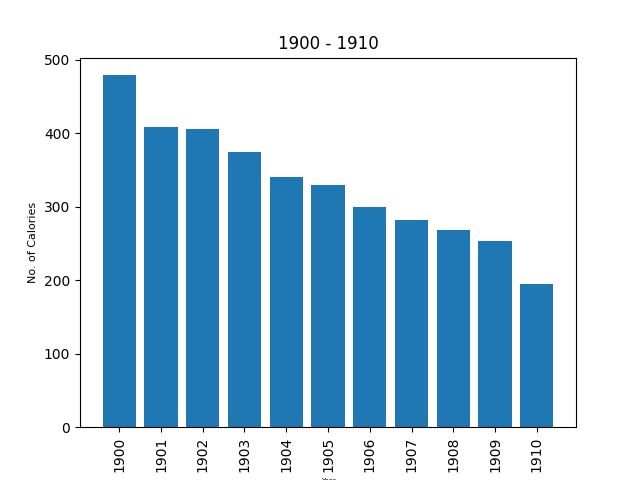
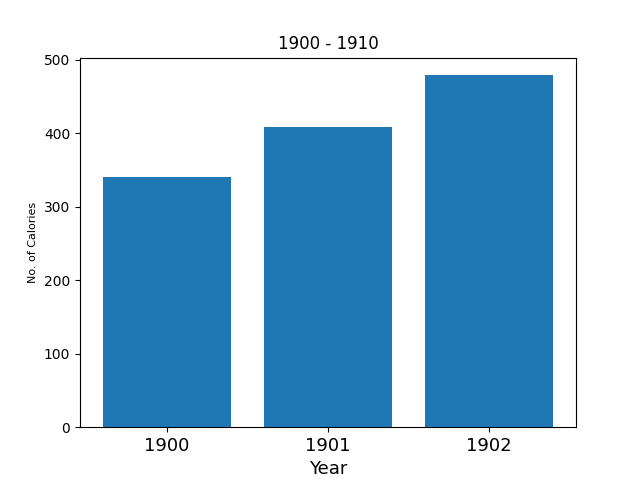
update

Changed region(s): [[0.1562, 0.1562, 0.875, 1.0]]

diff --git a/dataExcel.py b/dataExcel.py
@@ -13,19 +13,20 @@ newData.insert(0, 'Years', moveColumn) """
 del newData["Period"]
 print(newData)
 
-newData1 = newData.loc[(newData.Years >= 1900) & (newData.Years <= 1910)]
+newData1 = newData.loc[(newData.Years >= 1900) & (newData.Years <= 1902)]
 newData2 = newData.loc[(newData.Years >= 1911) & (newData.Years <= 1920)]
 newData3 = newData.loc[(newData.Years >= 1921) & (newData.Years <= 1930)] 
 
 def first():
+    print(newData1.head(3))
     print("First:")
     print("Total: ", round(newData1["Calories"].sum(), 2))
     print("Mean: ", round(newData1["Calories"].mean(), 2))
-    ps = newData1['Calories'].sort_values(ignore_index=True, ascending= False)
+    ps = newData1['Calories'].sort_values(ignore_index=True)
     index = newData1['Years']
-    plt.xlabel('Year', fontsize=5)
+    plt.xlabel('Year', fontsize=13)
     plt.ylabel('No. of Calories', fontsize=8)
-    plt.xticks(ps.index, index, fontsize=10, rotation=90)
+    plt.xticks(ps.index, index, fontsize=13, rotation=0)
     plt.title('1900 - 1910')
     plt.bar(ps.index, ps.values)
     plt.savefig("1900 - 1910")
@@ -63,5 +64,3 @@ def third():
 
 
 first()
-
-    

diff --git a/unitTest.py b/unitTest.py
@@ -1,0 +1,24 @@
+import unittest
+from unittest import result
+import matplotlib.pyplot as plt
+import pandas as pd
+import calculations as prog
+
+
+data = pd.read_excel("dataNew.xls")
+data1 = data["Period"].str.split(" ", n = 1, expand = True)
+newData = data.assign(Years= data1[1])
+newData["Years"] = newData["Years"].astype(int)
+data1 = newData.loc[(newData["Years"] >= 1900 ) & (newData["Years"] <= 1910)]
+
+class test(unittest.TestCase):
+    def test_total(self):
+        result = prog.math.total(data1["Calories"])
+        self.assertEqual(round(result, 2), 3637.2)
+
+    def test_mean(self):
+        result = prog.math.average(data1["Calories"].mean())
+        self.assertEqual(round(result, 2), 330.65)
+
+if __name__ == "__main__":
+    unittest.main()

diff --git a/calculations.py b/calculations.py
@@ -1,0 +1,6 @@
+class math:
+    def total(i):
+        return sum(i)
+
+    def average(i):
+        return i
